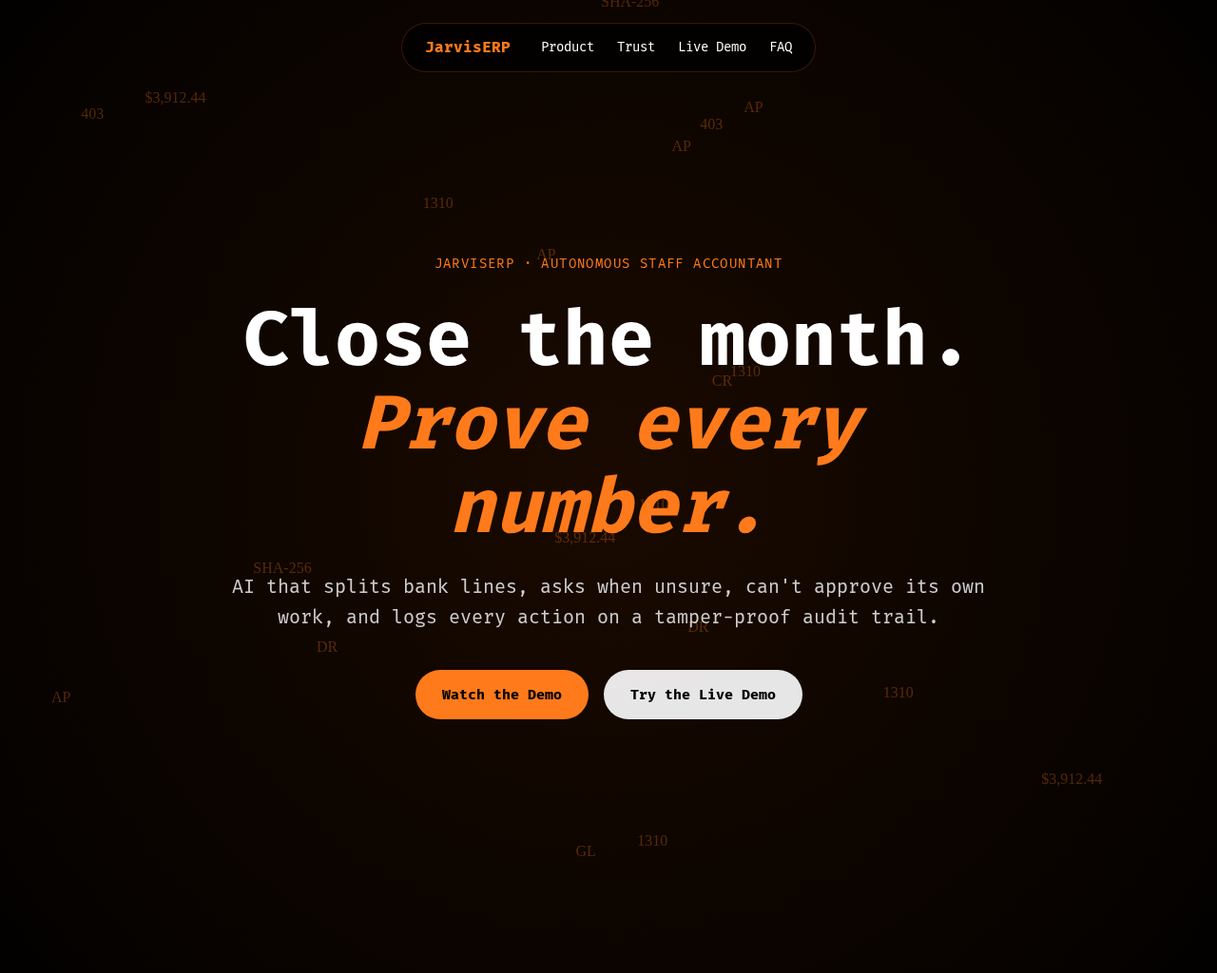
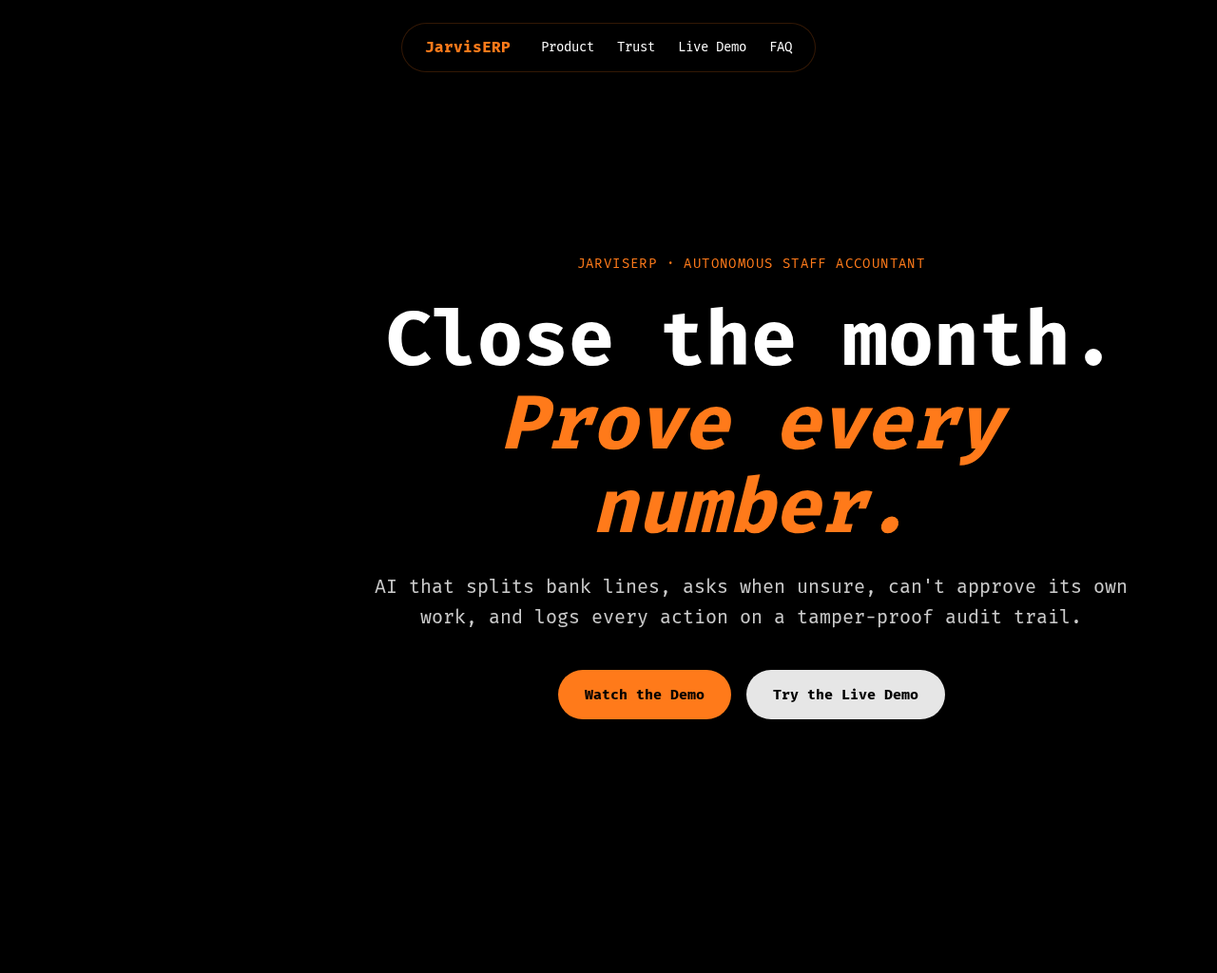
Expand Real vs Simulated with realistic modeling details
- Add dedicated Real vs Simulated section before Glossary
- Explain why synthetic data is realistic (not derived from real company)
- Detail realistic modeling: QuickBooks chart of accounts, real bank descriptors, multi-source feeds, FX fees, materiality, policies (P-0317), real close problems
- Expand FAQ answer with same explanation
- What's real: reasoning, AI calls, 403 controls, hash-chained audit log
- Clarify Afterglow Labs is synthetic to protect real clients

diff --git a/showcase/dist/assets/index-B9ckVuj8.css b/showcase/dist/assets/index-B9ckVuj8.css
@@ -1,0 +1,1 @@
+:root{--color-black: #000000;--color-white: #ffffff;--color-orange: #ff7a1a;--color-gray-50: #fafafa;--color-gray-100: #f5f5f5;--color-gray-200: #e5e5e5;--color-gray-600: #525252;--color-gray-900: #171717}*{margin:0;padding:0;box-sizing:border-box}html{scroll-behavior:smooth;font-variant-numeric:tabular-nums}@media (prefers-reduced-motion: reduce){*,*:before,*:after{animation-duration:.01ms!important;transition-duration:.01ms!important}}body{font-family:Fira Mono,monospace;background:var(--color-white);color:var(--color-gray-900);line-height:1.6;-webkit-font-smoothing:antialiased;overflow-x:hidden}.container{max-width:1200px;margin:0 auto;padding:0 2rem}.glass-nav{position:fixed;top:1.5rem;left:50%;transform:translate(-50%);z-index:1000}.nav-container{background:#000c;-webkit-backdrop-filter:blur(20px) saturate(180%);backdrop-filter:blur(20px) saturate(180%);border:1px solid rgba(255,122,26,.2);border-radius:100px;padding:.75rem 1.5rem;display:flex;align-items:center;gap:2rem}.nav-logo{font-weight:700;color:var(--color-orange);text-decoration:none}.nav-links{display:flex;gap:1.5rem}.nav-link{color:var(--color-white);text-decoration:none;font-size:.875rem;transition:color .2s}.nav-link:hover{color:var(--color-orange)}.hero-section{position:relative;min-height:100vh;display:flex;align-items:center;justify-content:center;background:var(--color-black);overflow:hidden}.hero-video{position:absolute;top:0;right:0;bottom:0;left:0;width:100%;height:100%;object-fit:cover;z-index:1}@media (prefers-reduced-motion: reduce){.hero-video{display:none}}.hero-scrim{position:absolute;top:0;right:0;bottom:0;left:0;background:linear-gradient(to bottom,#0000,#0000004d,#000000b3);z-index:2;pointer-events:none}.hero-content{position:relative;z-index:3;text-align:center;max-width:900px;padding:2rem}.hero-split-card{position:absolute;bottom:6rem;right:4rem;z-index:3;background:#000000e6;border:2px solid var(--color-orange);border-radius:12px;padding:1.5rem;min-width:320px;opacity:0;transform:translateY(20px);transition:opacity .8s ease,transform .8s ease}.hero-split-card.visible{opacity:1;transform:translateY(0)}.split-card-header{font-size:.875rem;font-weight:700;color:var(--color-orange);margin-bottom:1rem;text-transform:uppercase;letter-spacing:.1em;border-bottom:1px solid rgba(255,122,26,.3);padding-bottom:.5rem}.split-line{color:var(--color-white);font-size:.875rem;margin-bottom:.5rem;font-family:Fira Mono,monospace}.split-line:last-child{margin-bottom:0}.hero-kicker{font-size:.875rem;color:var(--color-orange);margin-bottom:1.5rem;text-transform:uppercase;letter-spacing:.1em}.hero-title{font-size:clamp(2.5rem,7vw,5rem);font-weight:700;line-height:1.1;color:var(--color-white);margin-bottom:1.5rem}.hero-title em{color:var(--color-orange);font-style:italic}.hero-subtitle{font-size:clamp(1rem,2vw,1.25rem);color:#fffc;margin-bottom:2.5rem}.hero-actions{display:flex;gap:1rem;justify-content:center;flex-wrap:wrap}.btn{display:inline-block;padding:.875rem 1.75rem;font-family:Fira Mono,monospace;font-size:.9375rem;font-weight:600;text-decoration:none;border-radius:100px;transition:all .2s;cursor:pointer;border:none}.btn-primary{background:var(--color-orange);color:var(--color-black)}.btn-primary:hover{background:#ffb066;transform:translateY(-2px)}.btn-secondary{background:#ffffffe6;color:var(--color-black)}.btn-secondary:hover{background:var(--color-white);transform:translateY(-2px)}.btn-small{padding:.5rem 1rem;font-size:.875rem}.section{padding:6rem 0}.section-tint{background:var(--color-gray-50)}.section-title{font-size:clamp(2rem,5vw,3rem);font-weight:700;text-align:center;margin-bottom:1rem}.section-subtitle{text-align:center;max-width:700px;margin:0 auto 4rem;color:var(--color-gray-600);font-size:1.125rem}.demo-window{background:var(--color-white);border:1px solid var(--color-gray-200);border-radius:12px;overflow:hidden;box-shadow:0 10px 30px #0000001a;margin-bottom:3rem}.demo-header{display:flex;align-items:center;gap:1rem;padding:1rem 1.5rem;background:var(--color-gray-50);border-bottom:1px solid var(--color-gray-200)}.demo-dots{display:flex;gap:.5rem}.demo-dots span{width:12px;height:12px;border-radius:50%;background:var(--color-gray-200)}.demo-title{font-size:.875rem;color:var(--color-gray-600)}.demo-content{padding:2rem;min-height:400px}.bank-line-demo{display:grid;grid-template-columns:120px 1fr auto;gap:1rem;padding:1.5rem;background:var(--color-gray-50);border:1px solid var(--color-gray-200);border-radius:8px;margin-bottom:2rem;font-weight:600}.bank-date{color:var(--color-gray-600)}.bank-desc{color:var(--color-black)}.bank-amount{color:var(--color-orange);text-align:right}.demo-splits,.demo-table{opacity:0}.workflow-steps{display:grid;grid-template-columns:repeat(auto-fit,minmax(200px,1fr));gap:2rem}.step-item{text-align:center}.step-num{display:inline-block;width:48px;height:48px;line-height:48px;background:var(--color-orange);color:var(--color-white);border-radius:50%;font-weight:700;margin-bottom:1rem}.step-item h3{font-size:1.125rem;margin-bottom:.5rem}.step-item p{color:var(--color-gray-600);font-size:.9375rem}.built-for-grid{display:grid;grid-template-columns:repeat(auto-fit,minmax(280px,1fr));gap:2rem}.simple-card{background:var(--color-white);border:1px solid var(--color-gray-200);border-radius:12px;padding:2rem;transition:transform .2s,box-shadow .2s}.simple-card:hover{transform:translateY(-4px);box-shadow:0 10px 30px #0000001a}.simple-card h3{font-size:1.25rem;margin-bottom:.75rem}.simple-card p{color:var(--color-gray-600)}.problems-grid{display:grid;grid-template-columns:repeat(auto-fit,minmax(250px,1fr));gap:2rem}.problem-card{background:var(--color-white);border:1px solid var(--color-gray-200);border-radius:12px;padding:2rem;position:relative;transition:transform .2s}.problem-card:hover{transform:translateY(-4px)}.problem-num{position:absolute;top:1rem;right:1rem;font-size:2rem;font-weight:700;color:#ff7a1a26}.problem-card h3{font-size:1.125rem;margin-bottom:.75rem;margin-top:1rem}.problem-card p{color:var(--color-gray-600);font-size:.9375rem}.workflow-tabs{display:flex;gap:.5rem;justify-content:center;margin-bottom:2rem;flex-wrap:wrap}.workflow-tab{padding:.75rem 1.5rem;background:transparent;border:1px solid var(--color-gray-200);border-radius:100px;font-family:Fira Mono,monospace;font-size:.9375rem;cursor:pointer;transition:all .2s}.workflow-tab:hover{border-color:var(--color-orange)}.workflow-tab.active{background:var(--color-orange);color:var(--color-white);border-color:var(--color-orange)}.workflow-content{display:none}.workflow-content.active{display:block}.workflow-panel{background:var(--color-white);border:1px solid var(--color-gray-200);border-radius:12px;padding:2rem;max-width:900px;margin:0 auto}.workflow-panel h3{margin-bottom:1.5rem}.bank-line{display:grid;grid-template-columns:120px 1fr auto;gap:1rem;padding:1.5rem;background:var(--color-gray-50);border:1px solid var(--color-gray-200);border-radius:8px;margin-bottom:2rem;font-weight:600;transition:all .3s}.bank-line.clickable{cursor:pointer}.bank-line.clickable:hover{border-color:var(--color-orange);transform:translateY(-2px)}.split-cards{display:grid;grid-template-columns:repeat(auto-fit,minmax(180px,1fr));gap:1rem;margin-bottom:2rem;opacity:0}.split-card{padding:1.25rem;background:var(--color-white);border:1px solid var(--color-gray-200);border-radius:8px}.split-account{font-size:.75rem;color:var(--color-gray-600);margin-bottom:.5rem}.split-name{font-weight:600;margin-bottom:.5rem}.split-amount{font-size:1.125rem;font-weight:700;color:var(--color-orange)}.balance-table{background:var(--color-white);border:1px solid var(--color-gray-200);border-radius:8px;padding:1.5rem;opacity:0}.balance-table table{width:100%;border-collapse:collapse}.balance-table th,.balance-table td{padding:.75rem;text-align:left;border-bottom:1px solid var(--color-gray-200)}.balance-table th{font-weight:600}.balance-table td:nth-child(2),.balance-table td:nth-child(3),.balance-table th:nth-child(2),.balance-table th:nth-child(3){text-align:right}.balance-table .total-row{font-weight:700;border-top:2px solid var(--color-black)}.balance-table .status-row{text-align:center;padding-top:1rem;color:var(--color-orange)}.challenge-btns,.scenario-btns{display:flex;flex-direction:column;gap:.75rem;margin-bottom:1rem}.btn-challenge,.btn-scenario{padding:.75rem 1rem;background:var(--color-white);border:1px solid var(--color-gray-200);border-radius:8px;font-family:Fira Mono,monospace;font-size:.875rem;cursor:pointer;text-align:left;transition:all .2s}.btn-challenge:hover,.btn-scenario:hover{border-color:var(--color-orange);background:#ff7a1a0d}#custom-challenge{width:100%;padding:.75rem;background:var(--color-white);border:1px solid var(--color-gray-200);border-radius:8px;font-family:Fira Mono,monospace;font-size:.875rem;resize:vertical;min-height:80px;margin-bottom:.75rem}#custom-challenge:focus{outline:none;border-color:var(--color-orange)}.challenge-response,.scenario-output{margin-top:1rem;padding:1rem;background:#ff7a1a1a;border-left:3px solid var(--color-orange);border-radius:4px;font-size:.875rem;min-height:60px}.trust-stack{max-width:600px;margin:0 auto 3rem;display:flex;flex-direction:column;gap:.75rem}.trust-layer{padding:1.25rem;background:var(--color-white);border:1px solid var(--color-gray-200);border-radius:8px;font-weight:600}.trust-note{max-width:800px;margin:0 auto;padding:1.5rem;background:#ff7a1a1a;border-left:3px solid var(--color-orange);border-radius:4px}.trust-note p{color:var(--color-gray-900)}.demo-grid{display:grid;grid-template-columns:repeat(auto-fit,minmax(320px,1fr));gap:2rem}.demo-panel{background:var(--color-white);border:1px solid var(--color-gray-200);border-radius:12px;padding:2rem}.demo-panel h3{margin-bottom:1.5rem}.state-display{padding:1rem;background:#ff7a1a1a;border:2px solid var(--color-orange);border-radius:8px;text-align:center;font-size:1.125rem;font-weight:700;text-transform:uppercase;margin-bottom:1.5rem}.demo-controls{display:flex;flex-direction:column;gap:.75rem}.demo-controls .btn:disabled{opacity:.4;cursor:not-allowed}.state-message{margin-top:1rem;padding:1rem;background:#ff7a1a1a;border-left:3px solid var(--color-orange);border-radius:4px;font-size:.875rem;min-height:60px}.state-message.error{background:#ef44441a;border-left-color:#ef4444;color:#ef4444}.audit-log{background:var(--color-gray-50);border:1px solid var(--color-gray-200);border-radius:8px;padding:1rem;max-height:300px;overflow-y:auto;margin-bottom:1rem;font-size:.75rem}.audit-entry{padding:.5rem;margin-bottom:.5rem;background:var(--color-white);border-radius:4px;border-left:3px solid var(--color-orange)}.audit-entry.tampered{border-left-color:#ef4444;background:#ef44440d}.verify-result{margin-top:1rem;padding:1rem;border-radius:8px;font-size:.875rem}.verify-result.valid{background:#22c55e1a;border:1px solid #22c55e;color:#22c55e}.verify-result.invalid{background:#ef44441a;border:1px solid #ef4444;color:#ef4444}.real-vs-grid{display:grid;grid-template-columns:repeat(auto-fit,minmax(300px,1fr));gap:2rem;margin-bottom:3rem}.real-vs-col{background:var(--color-white);border:1px solid var(--color-gray-200);border-radius:12px;padding:2rem}.real-vs-col h3{font-size:1.25rem;margin-bottom:1rem;color:var(--color-black)}.real-vs-col p{color:var(--color-gray-600);line-height:1.7}.realistic-note{background:#ff7a1a1a;border-left:3px solid var(--color-orange);border-radius:8px;padding:2rem;max-width:900px;margin:0 auto}.realistic-note h3{font-size:1.25rem;margin-bottom:1rem;color:var(--color-black)}.realistic-note p{color:var(--color-gray-900);line-height:1.7;margin-bottom:1rem}.realistic-note ul{margin:1rem 0 1rem 1.5rem;color:var(--color-gray-900)}.realistic-note li{margin-bottom:.75rem;line-height:1.7}.realistic-note strong{color:var(--color-black)}.glossary-search{display:block;width:100%;max-width:600px;margin:0 auto 3rem;padding:1rem 1.5rem;background:var(--color-white);border:1px solid var(--color-gray-200);border-radius:100px;font-family:Fira Mono,monospace;font-size:1rem;transition:border-color .3s}.glossary-search:focus{outline:none;border-color:var(--color-orange)}.glossary-grid{display:grid;grid-template-columns:repeat(auto-fill,minmax(250px,1fr));gap:1.5rem}.glossary-term{background:var(--color-white);border:1px solid var(--color-gray-200);border-radius:8px;padding:1.5rem;transition:all .2s}.glossary-term:hover{border-color:var(--color-orange);transform:translateY(-2px)}.glossary-term h4{margin-bottom:.75rem;font-size:1.125rem}.glossary-term p{color:var(--color-gray-600);font-size:.875rem}.faq-list{max-width:800px;margin:0 auto}.faq-item{background:var(--color-white);border:1px solid var(--color-gray-200);border-radius:8px;margin-bottom:1rem;overflow:hidden}.faq-q{width:100%;padding:1.5rem;background:none;border:none;text-align:left;font-family:Fira Mono,monospace;font-size:1.125rem;font-weight:600;cursor:pointer;display:flex;justify-content:space-between;align-items:center}.faq-q:after{content:"+";font-size:1.5rem;color:var(--color-orange);transition:transform .3s}.faq-item.active .faq-q:after{transform:rotate(45deg)}.faq-a{max-height:0;overflow:hidden;transition:max-height .3s,padding .3s}.faq-item.active .faq-a{max-height:500px;padding:0 1.5rem 1.5rem}.faq-a p{color:var(--color-gray-600);margin-bottom:1rem}.faq-a p:last-child{margin-bottom:0}.footer{background:var(--color-gray-900);color:#ffffffb3;padding:4rem 0 2rem}.footer-grid{display:grid;grid-template-columns:2fr 1fr;gap:4rem}.footer h3{color:var(--color-white);margin-bottom:1rem;font-size:1.125rem}.footer p{margin-bottom:.5rem}.footer a{color:var(--color-orange);text-decoration:none;transition:color .2s;display:block;margin-bottom:.5rem}.footer a:hover{color:#ffb066}@media (max-width: 768px){.container{padding:0 1rem}.glass-nav{top:1rem;left:1rem;right:1rem;transform:none}.nav-container{justify-content:space-between}.nav-links{display:none}.section{padding:4rem 0}.bank-line,.bank-line-demo{grid-template-columns:1fr;gap:.5rem}.footer-grid{grid-template-columns:1fr;gap:2rem}}@media (max-width: 390px){.simple-card,.problem-card,.demo-panel,.workflow-panel{padding:1.5rem}}

diff --git a/showcase/dist/index.html b/showcase/dist/index.html
@@ -8,9 +8,9 @@
   <link rel="preconnect" href="https://fonts.googleapis.com">
   <link rel="preconnect" href="https://fonts.gstatic.com" crossorigin>
   <link href="https://fonts.googleapis.com/css2?family=Fira+Mono:wght@400;500;700&display=swap" rel="stylesheet">
-  <script type="module" crossorigin src="/hyphenate-JarvisERP-calhacks/assets/index-DaUEgtiM.js"></script>
+  <script type="module" crossorigin src="/hyphenate-JarvisERP-calhacks/assets/index-BTY-aKsO.js"></script>
   <link rel="modulepreload" crossorigin href="/hyphenate-JarvisERP-calhacks/assets/gsap-SFc2wnMY.js">
-  <link rel="stylesheet" crossorigin href="/hyphenate-JarvisERP-calhacks/assets/index-DuYQv5TR.css">
+  <link rel="stylesheet" crossorigin href="/hyphenate-JarvisERP-calhacks/assets/index-B9ckVuj8.css">
 </head>
 <body>
   <!-- Floating Glass Nav -->
@@ -27,9 +27,20 @@
   </nav>
 
   <div id="app">
-    <!-- Hero Section with Lightweight Particle Sea -->
+    <!-- Hero Section with Video Background -->
     <section id="hero" class="hero-section">
-      <canvas id="particle-canvas" class="hero-canvas"></canvas>
+      <video 
+        id="hero-video"
+        class="hero-video"
+        autoplay 
+        muted 
+        playsinline 
+        loop 
+        preload="metadata"
+        poster="/hyphenate-JarvisERP-calhacks/assets/poster.jpg">
+        <source src="/hyphenate-JarvisERP-calhacks/assets/hero.mp4" type="video/mp4">
+      </video>
+      <div class="hero-scrim"></div>
       <div class="hero-content">
         <div class="hero-kicker">JarvisERP · Autonomous Staff Accountant</div>
         <h1 class="hero-title">Close the month. <em>Prove every number.</em></h1>
@@ -38,6 +49,13 @@
           <a href="#product" class="btn btn-primary">Watch the Demo</a>
           <a href="#demo" class="btn btn-secondary">Try the Live Demo</a>
         </div>
+      </div>
+      <div id="hero-split-card" class="hero-split-card">
+        <div class="split-card-header">JARVIS · PROPOSED SPLIT</div>
+        <div class="split-line">$3,451.50 → 1310 Prepaid Tour Costs</div>
+        <div class="split-line">$147.50 → 6810 Bank & FX Fees</div>
+        <div class="split-line">$200.00 → 6410 Software (Claude)</div>
+        <div class="split-line">$113.44 → 1250 Employee Receivable</div>
       </div>
     </section>
 
@@ -241,6 +259,37 @@
             </div>
             <div id="verify-result" class="verify-result"></div>
           </div>
+        </div>
+      </div>
+    </section>
+
+    <!-- Real vs Simulated Section -->
+    <section id="real-vs-simulated" class="section">
+      <div class="container">
+        <h2 class="section-title">Real vs Simulated</h2>
+        <div class="real-vs-grid">
+          <div class="real-vs-col">
+            <h3>Simulated</h3>
+            <p><strong>Afterglow Labs</strong> (fictional AV touring studio), September 2026 scenario, Maya's Steam purchase, EUR crew deposit, Chase/PayPal/Ramp transaction data.</p>
+          </div>
+          <div class="real-vs-col">
+            <h3>Real Code</h3>
+            <p>Single ledger gateway (only write path), role-based authorization (HTTP 403), state machine (new → proposed → needs_info → approved → posted), SHA-256 hash-chained audit log, challenge/defend/concede with precedent recording.</p>
+          </div>
+        </div>
+        
+        <div class="realistic-note">
+          <h3>Why the synthetic data is realistic</h3>
+          <p>Afterglow Labs is synthetic so no real client's books are exposed, but it's modeled on how real books look:</p>
+          <ul>
+            <li><strong>QuickBooks-style chart of accounts:</strong> 1010 Cash, 1250 Employee Receivable, 1310 Prepaid, 6410 Software, 6810 Bank & FX Fees</li>
+            <li><strong>Real bank-descriptor formats:</strong> "PAYPAL *INST XFER", "ORIG CO NAME:STRIPE"</li>
+            <li><strong>Multi-source feeds:</strong> Bank statements, payment processors (PayPal/Stripe), corporate cards (Ramp), GL exports</li>
+            <li><strong>To-the-cent amounts including FX fees:</strong> $3,912.44 total with $147.50 wire fees</li>
+            <li><strong>Materiality thresholds & written policies:</strong> P-0317 (personal purchases → Employee Receivable)</li>
+            <li><strong>Real close problems:</strong> Bundled payments, personal spend on corporate cards, timing & accruals, duplicate vendors, vendor bank-change fraud</li>
+          </ul>
+          <p><strong>What's real:</strong> The reasoning, the AI calls, the controls (403 denial), and the hash-chained audit log. This is not derived from any real company.</p>
         </div>
       </div>
     </section>

diff --git a/showcase/index-simple.html b/showcase/index-simple.html
@@ -260,6 +260,37 @@
       </div>
     </section>
 
+    <!-- Real vs Simulated Section -->
+    <section id="real-vs-simulated" class="section">
+      <div class="container">
+        <h2 class="section-title">Real vs Simulated</h2>
+        <div class="real-vs-grid">
+          <div class="real-vs-col">
+            <h3>Simulated</h3>
+            <p><strong>Afterglow Labs</strong> (fictional AV touring studio), September 2026 scenario, Maya's Steam purchase, EUR crew deposit, Chase/PayPal/Ramp transaction data.</p>
+          </div>
+          <div class="real-vs-col">
+            <h3>Real Code</h3>
+            <p>Single ledger gateway (only write path), role-based authorization (HTTP 403), state machine (new → proposed → needs_info → approved → posted), SHA-256 hash-chained audit log, challenge/defend/concede with precedent recording.</p>
+          </div>
+        </div>
+        
+        <div class="realistic-note">
+          <h3>Why the synthetic data is realistic</h3>
+          <p>Afterglow Labs is synthetic so no real client's books are exposed, but it's modeled on how real books look:</p>
+          <ul>
+            <li><strong>QuickBooks-style chart of accounts:</strong> 1010 Cash, 1250 Employee Receivable, 1310 Prepaid, 6410 Software, 6810 Bank & FX Fees</li>
+            <li><strong>Real bank-descriptor formats:</strong> "PAYPAL *INST XFER", "ORIG CO NAME:STRIPE"</li>
+            <li><strong>Multi-source feeds:</strong> Bank statements, payment processors (PayPal/Stripe), corporate cards (Ramp), GL exports</li>
+            <li><strong>To-the-cent amounts including FX fees:</strong> $3,912.44 total with $147.50 wire fees</li>
+            <li><strong>Materiality thresholds & written policies:</strong> P-0317 (personal purchases → Employee Receivable)</li>
+            <li><strong>Real close problems:</strong> Bundled payments, personal spend on corporate cards, timing & accruals, duplicate vendors, vendor bank-change fraud</li>
+          </ul>
+          <p><strong>What's real:</strong> The reasoning, the AI calls, the controls (403 denial), and the hash-chained audit log. This is not derived from any real company.</p>
+        </div>
+      </div>
+    </section>
+
     <!-- Glossary Section -->
     <section id="glossary" class="section section-tint">
       <div class="container">
@@ -289,8 +320,10 @@
           <div class="faq-item">
             <button class="faq-q">What's real vs simulated?</button>
             <div class="faq-a">
-              <p><strong>Simulated:</strong> Afterglow Labs, Sep 2026 scenario, Maya's Steam purchase.</p>
-              <p><strong>Real code:</strong> Single gateway, HTTP 403, state machine, SHA-256 hash-chained audit log.</p>
+              <p><strong>Simulated:</strong> Afterglow Labs (fictional AV touring company), September 2026 scenario, Maya's Steam purchase, EUR crew deposit.</p>
+              <p><strong>Real code:</strong> Single gateway, HTTP 403, state machine, SHA-256 hash-chained audit log, challenge/defend system.</p>
+              <p><strong>Why the synthetic data is realistic:</strong> Afterglow Labs is synthetic so no real client's books are exposed, but it's modeled on how real books look: QuickBooks-style chart of accounts (1010 Cash, 1250 Employee Receivable, 6410 Software, 6810 Bank & FX Fees), real bank-descriptor formats ("PAYPAL *INST XFER"), multi-source feeds (bank, PayPal, Ramp, GL), to-the-cent amounts including FX fees ($3,912.44 with $147.50 wire fees), materiality thresholds, written policies (P-0317), and the real close problems (bundled payments, personal spend on corporate cards, timing & accruals, duplicate vendors, vendor bank-change fraud).</p>
+              <p><strong>What's real:</strong> The reasoning, the AI calls, the controls (403 denial), and the hash-chained audit log. This is not derived from any real company.</p>
             </div>
           </div>
           <div class="faq-item">

diff --git a/showcase/index.html b/showcase/index.html
@@ -24,9 +24,20 @@
   </nav>
 
   <div id="app">
-    <!-- Hero Section with Lightweight Particle Sea -->
+    <!-- Hero Section with Video Background -->
     <section id="hero" class="hero-section">
-      <canvas id="particle-canvas" class="hero-canvas"></canvas>
+      <video 
+        id="hero-video"
+        class="hero-video"
+        autoplay 
+        muted 
+        playsinline 
+        loop 
+        preload="metadata"
+        poster="/assets/poster.jpg">
+        <source src="/assets/hero.mp4" type="video/mp4">
+      </video>
+      <div class="hero-scrim"></div>
       <div class="hero-content">
         <div class="hero-kicker">JarvisERP · Autonomous Staff Accountant</div>
         <h1 class="hero-title">Close the month. <em>Prove every number.</em></h1>
@@ -35,6 +46,13 @@
           <a href="#product" class="btn btn-primary">Watch the Demo</a>
           <a href="#demo" class="btn btn-secondary">Try the Live Demo</a>
         </div>
+      </div>
+      <div id="hero-split-card" class="hero-split-card">
+        <div class="split-card-header">JARVIS · PROPOSED SPLIT</div>
+        <div class="split-line">$3,451.50 → 1310 Prepaid Tour Costs</div>
+        <div class="split-line">$147.50 → 6810 Bank & FX Fees</div>
+        <div class="split-line">$200.00 → 6410 Software (Claude)</div>
+        <div class="split-line">$113.44 → 1250 Employee Receivable</div>
       </div>
     </section>
 
@@ -238,6 +256,37 @@
             </div>
             <div id="verify-result" class="verify-result"></div>
           </div>
+        </div>
+      </div>
+    </section>
+
+    <!-- Real vs Simulated Section -->
+    <section id="real-vs-simulated" class="section">
+      <div class="container">
+        <h2 class="section-title">Real vs Simulated</h2>
+        <div class="real-vs-grid">
+          <div class="real-vs-col">
+            <h3>Simulated</h3>
+            <p><strong>Afterglow Labs</strong> (fictional AV touring studio), September 2026 scenario, Maya's Steam purchase, EUR crew deposit, Chase/PayPal/Ramp transaction data.</p>
+          </div>
+          <div class="real-vs-col">
+            <h3>Real Code</h3>
+            <p>Single ledger gateway (only write path), role-based authorization (HTTP 403), state machine (new → proposed → needs_info → approved → posted), SHA-256 hash-chained audit log, challenge/defend/concede with precedent recording.</p>
+          </div>
+        </div>
+        
+        <div class="realistic-note">
+          <h3>Why the synthetic data is realistic</h3>
+          <p>Afterglow Labs is synthetic so no real client's books are exposed, but it's modeled on how real books look:</p>
+          <ul>
+            <li><strong>QuickBooks-style chart of accounts:</strong> 1010 Cash, 1250 Employee Receivable, 1310 Prepaid, 6410 Software, 6810 Bank & FX Fees</li>
+            <li><strong>Real bank-descriptor formats:</strong> "PAYPAL *INST XFER", "ORIG CO NAME:STRIPE"</li>
+            <li><strong>Multi-source feeds:</strong> Bank statements, payment processors (PayPal/Stripe), corporate cards (Ramp), GL exports</li>
+            <li><strong>To-the-cent amounts including FX fees:</strong> $3,912.44 total with $147.50 wire fees</li>
+            <li><strong>Materiality thresholds & written policies:</strong> P-0317 (personal purchases → Employee Receivable)</li>
+            <li><strong>Real close problems:</strong> Bundled payments, personal spend on corporate cards, timing & accruals, duplicate vendors, vendor bank-change fraud</li>
+          </ul>
+          <p><strong>What's real:</strong> The reasoning, the AI calls, the controls (403 denial), and the hash-chained audit log. This is not derived from any real company.</p>
         </div>
       </div>
     </section>

diff --git a/showcase/src/style-simple.css b/showcase/src/style-simple.css
@@ -773,6 +773,67 @@ body {
   color: #ef4444;
 }
 
+/* Real vs Simulated */
+.real-vs-grid {
+  display: grid;
+  grid-template-columns: repeat(auto-fit, minmax(300px, 1fr));
+  gap: 2rem;
+  margin-bottom: 3rem;
+}
+
+.real-vs-col {
+  background: var(--color-white);
+  border: 1px solid var(--color-gray-200);
+  border-radius: 12px;
+  padding: 2rem;
+}
+
+.real-vs-col h3 {
+  font-size: 1.25rem;
+  margin-bottom: 1rem;
+  color: var(--color-black);
+}
+
+.real-vs-col p {
+  color: var(--color-gray-600);
+  line-height: 1.7;
+}
+
+.realistic-note {
+  background: rgba(255, 122, 26, 0.1);
+  border-left: 3px solid var(--color-orange);
+  border-radius: 8px;
+  padding: 2rem;
+  max-width: 900px;
+  margin: 0 auto;
+}
+
+.realistic-note h3 {
+  font-size: 1.25rem;
+  margin-bottom: 1rem;
+  color: var(--color-black);
+}
+
+.realistic-note p {
+  color: var(--color-gray-900);
+  line-height: 1.7;
+  margin-bottom: 1rem;
+}
+
+.realistic-note ul {
+  margin: 1rem 0 1rem 1.5rem;
+  color: var(--color-gray-900);
+}
+
+.realistic-note li {
+  margin-bottom: 0.75rem;
+  line-height: 1.7;
+}
+
+.realistic-note strong {
+  color: var(--color-black);
+}
+
 /* Glossary */
 .glossary-search {
   display: block;

diff --git a/showcase/src/style.css b/showcase/src/style.css
@@ -773,6 +773,67 @@ body {
   color: #ef4444;
 }
 
+/* Real vs Simulated */
+.real-vs-grid {
+  display: grid;
+  grid-template-columns: repeat(auto-fit, minmax(300px, 1fr));
+  gap: 2rem;
+  margin-bottom: 3rem;
+}
+
+.real-vs-col {
+  background: var(--color-white);
+  border: 1px solid var(--color-gray-200);
+  border-radius: 12px;
+  padding: 2rem;
+}
+
+.real-vs-col h3 {
+  font-size: 1.25rem;
+  margin-bottom: 1rem;
+  color: var(--color-black);
+}
+
+.real-vs-col p {
+  color: var(--color-gray-600);
+  line-height: 1.7;
+}
+
+.realistic-note {
+  background: rgba(255, 122, 26, 0.1);
+  border-left: 3px solid var(--color-orange);
+  border-radius: 8px;
+  padding: 2rem;
+  max-width: 900px;
+  margin: 0 auto;
+}
+
+.realistic-note h3 {
+  font-size: 1.25rem;
+  margin-bottom: 1rem;
+  color: var(--color-black);
+}
+
+.realistic-note p {
+  color: var(--color-gray-900);
+  line-height: 1.7;
+  margin-bottom: 1rem;
+}
+
+.realistic-note ul {
+  margin: 1rem 0 1rem 1.5rem;
+  color: var(--color-gray-900);
+}
+
+.realistic-note li {
+  margin-bottom: 0.75rem;
+  line-height: 1.7;
+}
+
+.realistic-note strong {
+  color: var(--color-black);
+}
+
 /* Glossary */
 .glossary-search {
   display: block;
